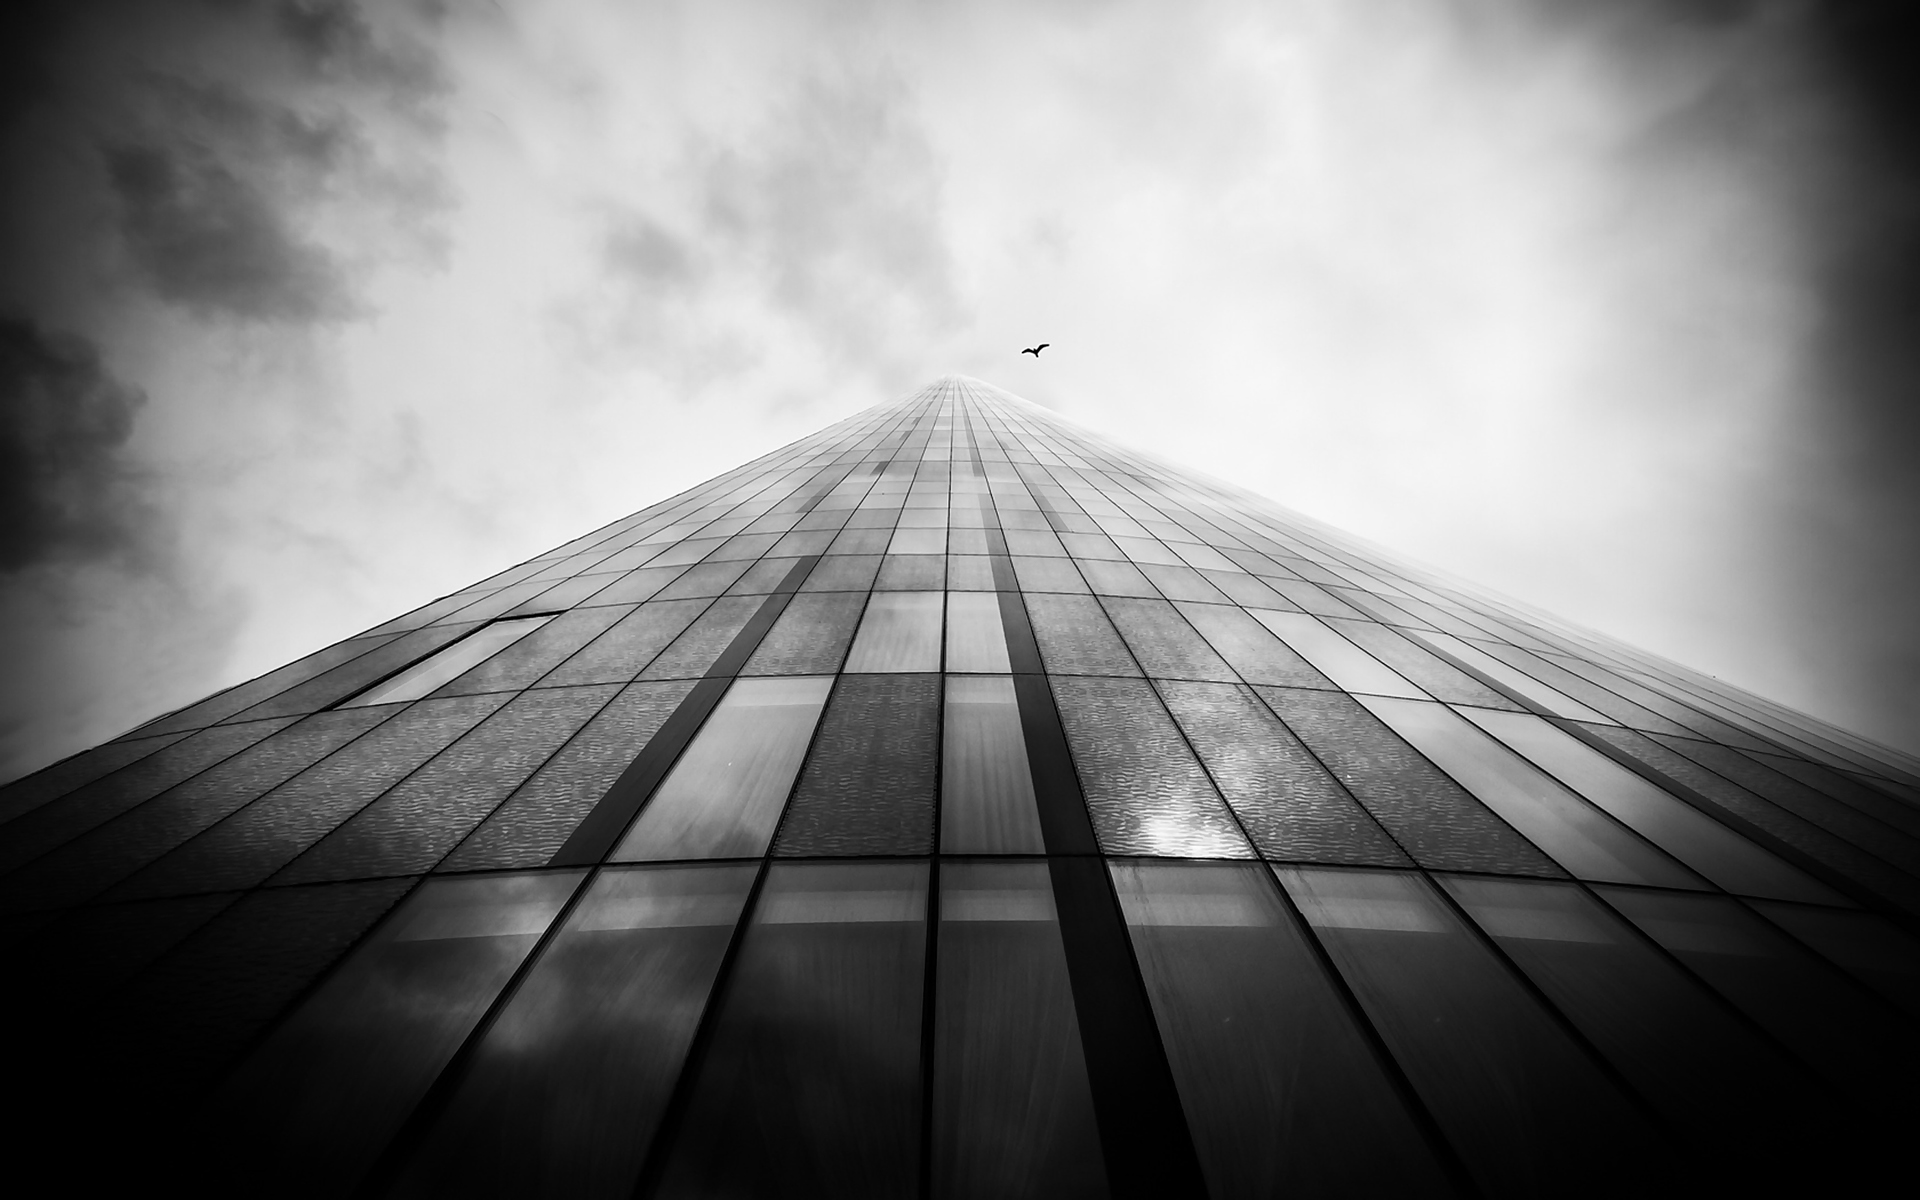
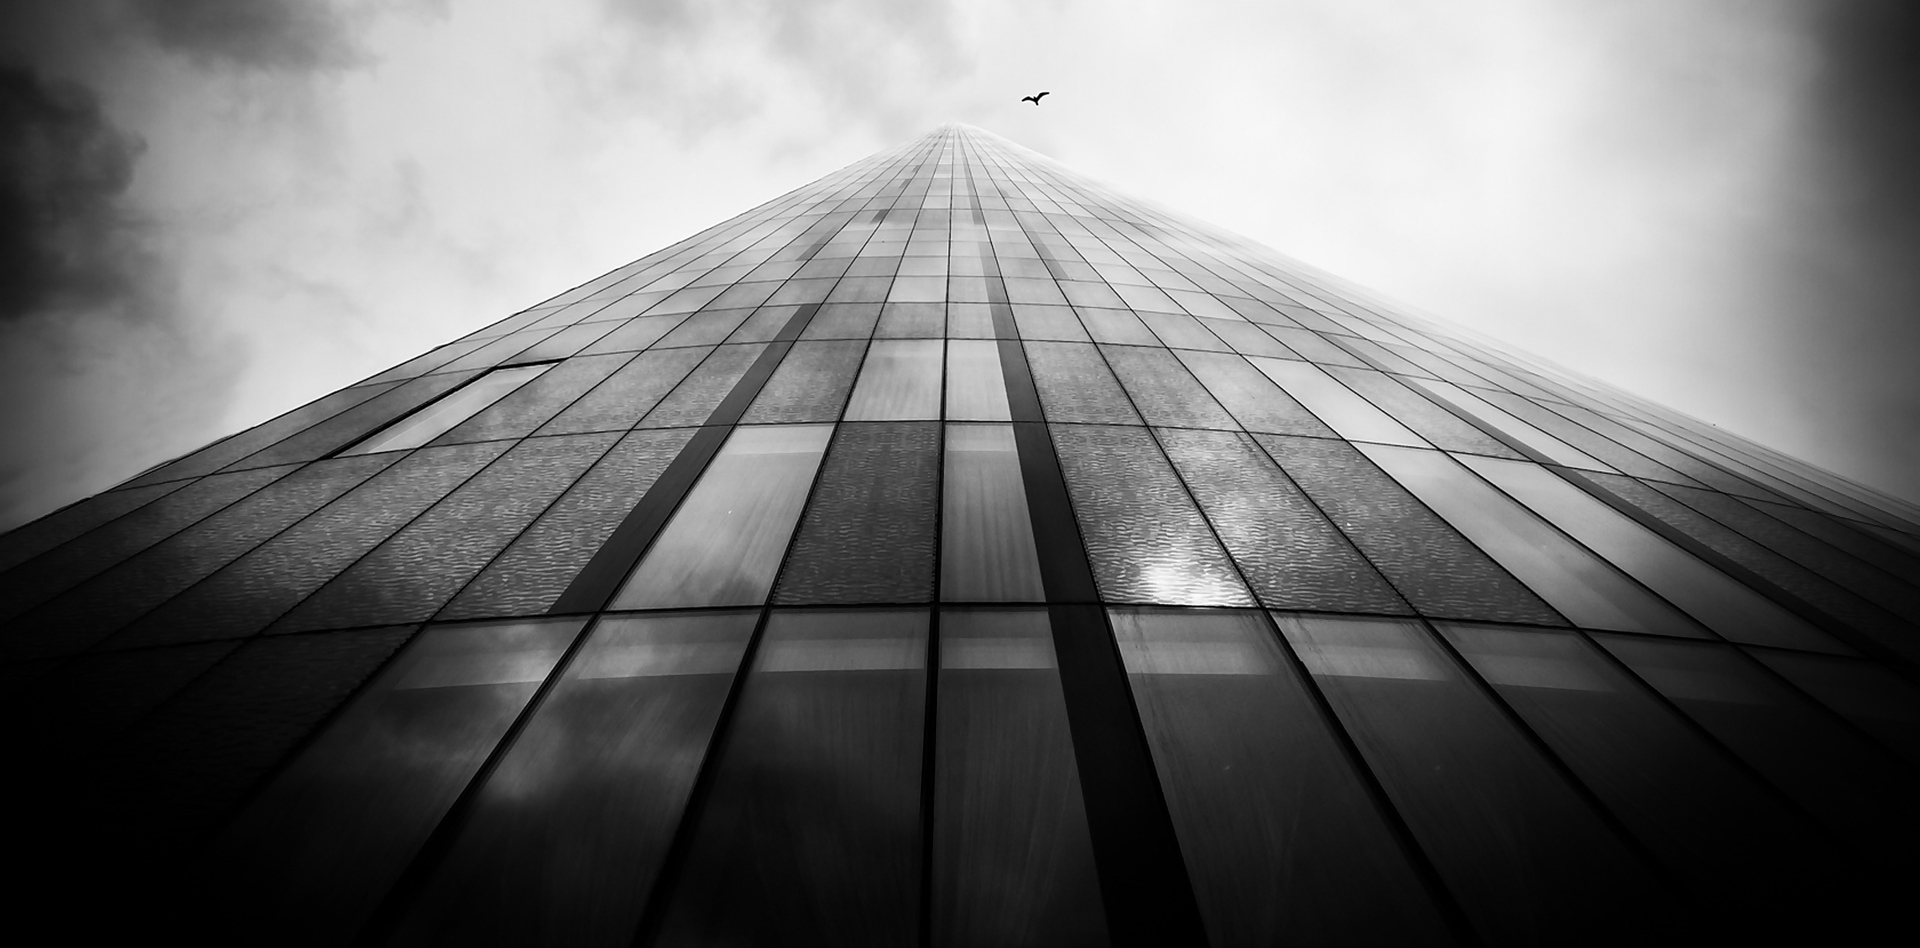
10-27-18

diff --git a/index.html b/index.html
@@ -8,7 +8,7 @@
 
 	<style>
 		body {
-			background: linear-gradient(#42f4eb, #42f49b, #d1f442);
+			background: url(background.jpg);
 		}
 	</style>
 </head>
